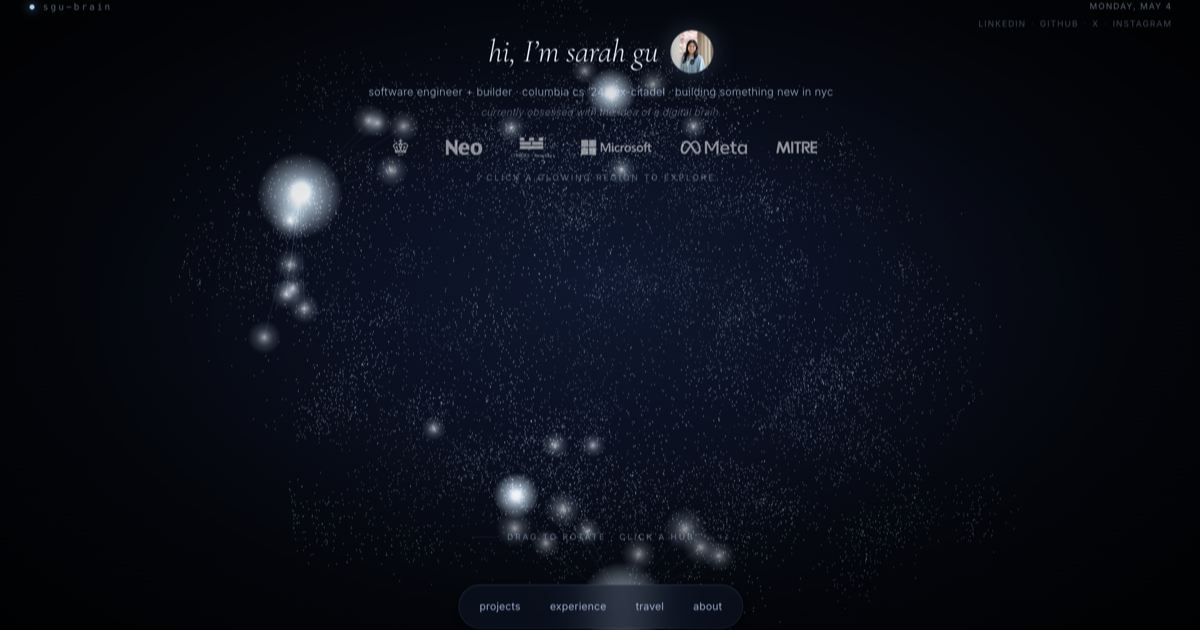
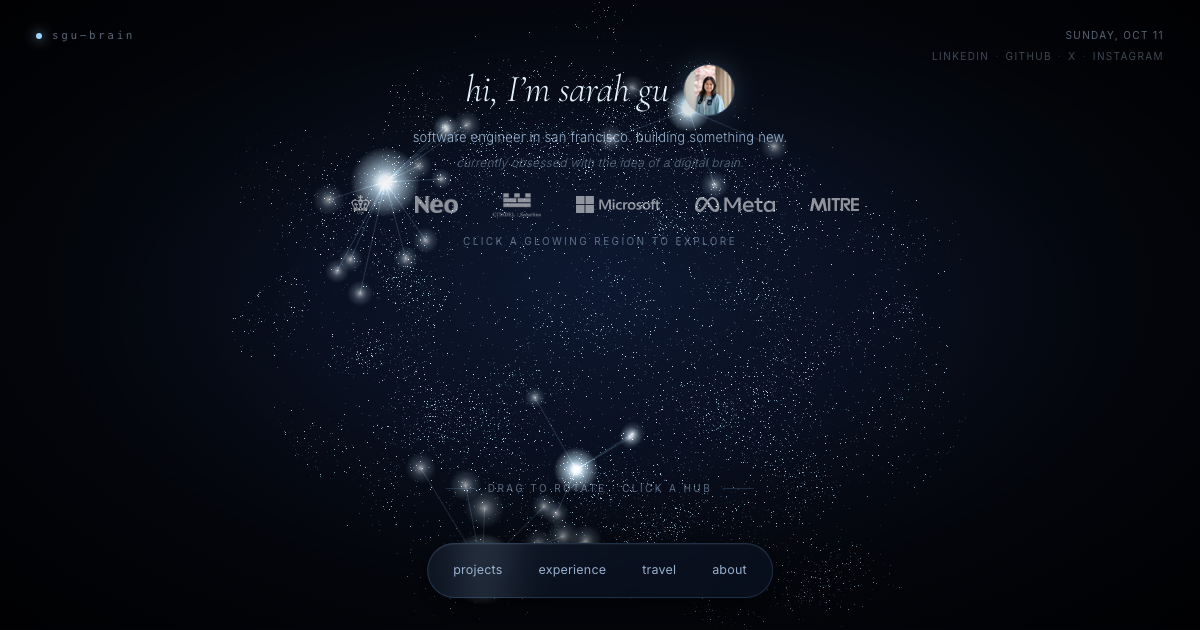
copy: based in San Francisco, not NYC
Hero, meta description, about page, hub chip, experience blurbs, and a
regenerated OG preview screenshot. Brooklyn Half project text unchanged.

diff --git a/app/layout.tsx b/app/layout.tsx
@@ -17,7 +17,7 @@ const cormorant = Cormorant_Garamond({
 
 const SITE_TITLE = "Sarah Gu - software engineer & builder";
 const SITE_DESCRIPTION =
-  "Columbia CS '24 · ex-Citadel Securities · building something new in NYC.";
+  "Columbia CS '24 · ex-Citadel Securities · building something new in San Francisco.";
 const SITE_URL = "https://sgu.life";
 
 export const metadata: Metadata = {

diff --git a/components/brain/BrainPage.tsx b/components/brain/BrainPage.tsx
@@ -309,7 +309,7 @@ export default function BrainPage({
                   textWrap: "balance",
                 }}
               >
-                software engineer in nyc. building something new.
+                software engineer in san francisco. building something new.
               </div>
               <div
                 style={{

diff --git a/components/brain/NeuronDetail.tsx b/components/brain/NeuronDetail.tsx
@@ -472,7 +472,7 @@ function AboutView({ about }: { about: AboutDetail }) {
                 boxShadow: `0 0 8px ${ICE.accent}`,
               }}
             />
-            <span>based in nyc</span>
+            <span>based in san francisco</span>
           </div>
 
           <div className="hd-about-rule" />
